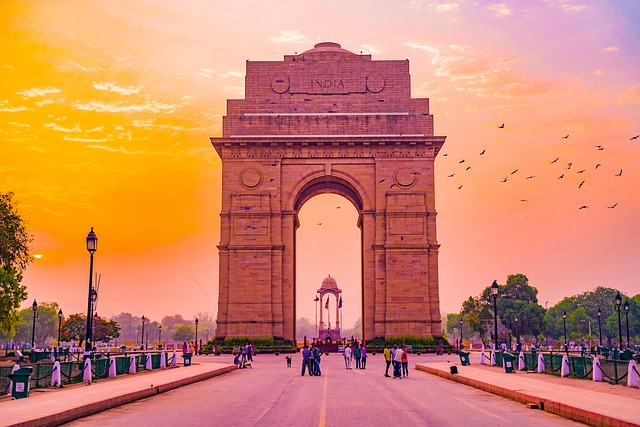
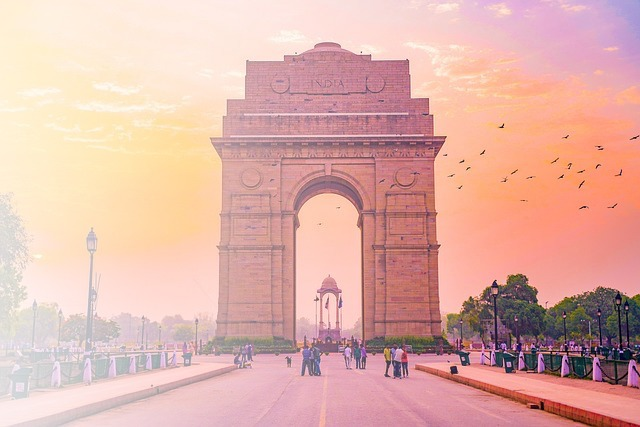
apply the gradient

diff --git a/public/index.html b/public/index.html
@@ -59,7 +59,7 @@
     <main class="main" id="top">
       <?php include('inc/nav.php')?>
       <section class="py-0">
-        <div class="bg-holder d-none d-md-block" style="background-image:url(assets/img/gallery/del3.png);background-position:right bottom;background-size:contain;">
+        <div class="bg-holder d-none d-md-block" style="background-image:url(assets/img/gallery/del.png);background-position:right bottom;background-size:contain;">
         </div>
         <!--/.bg-holder-->
 
